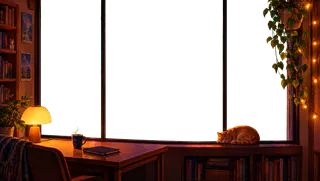
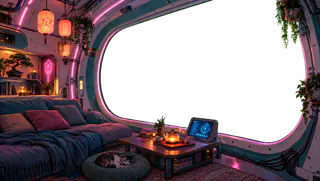
NEON: cápsula cyberpunk asiática y naves en su propia capa
- Nueva escena (pedido del dueño): una cápsula-casa futurista en una megaciudad
  asiática de noche, con neón y lluvia, en vez del depto. Cielo, ciudad (sin
  naves), cápsula con la ventana recortada y primer plano, todas derivadas de
  una misma maestra.
- Las naves son ahora seis piezas sueltas que cruzan el cielo hacia la izquierda
  en bucle, cada una a su velocidad y tamaño, con un leve vaivén, y con su
  propia profundidad al mover la cabeza.
- Todas las capas comparten el mismo marco de la pintura, así los recortes
  quedan alineados en cualquier proporción de pantalla.

diff --git a/src/components/sections/neon/HeroWindow.jsx b/src/components/sections/neon/HeroWindow.jsx
@@ -2,7 +2,7 @@ import { useRef } from 'react'
 import { gsap, useGSAP } from '../../../lib/gsap'
 import { calmReveal, prefersReducedMotion, trackPointer } from '../../../lib/motion'
 import { imgAttrs } from '../../../lib/responsiveImage'
-import { city, fore, room, sky, variants } from './assets/images'
+import { city, fore, room, ship1, ship2, ship3, ship4, ship5, ship6, sky, variants } from './assets/images'
 
 /**
  * Depth of each layer: how far it drifts when you "move your head" (pointer,
@@ -12,17 +12,44 @@ import { city, fore, room, sky, variants } from './assets/images'
  */
 const LAYERS = [
   { id: 'sky', src: sky, drift: 70, lift: 26, scale: 1.16 },
-  { id: 'city', src: city, drift: 48, lift: 18, scale: 1.12 },
+  { id: 'city', src: city, drift: 50, lift: 18, scale: 1.12 },
+  { id: 'ships', drift: 34, lift: 12, scale: 1.1 },
   { id: 'room', src: room, drift: 12, lift: 6, scale: 1.04 },
   { id: 'fore', src: fore, drift: -10, lift: -4, scale: 1.06 },
 ]
 
+// The painting is 2688 × 1520; every layer is laid on the same frame so the
+// cut-outs stay aligned.
+const ART_W = 2688
+const ART_H = 1520
+const FRAME = {
+  position: 'absolute',
+  left: '50%',
+  top: '50%',
+  width: `max(100%, calc(100svh * ${ART_W / ART_H}))`,
+  height: `max(100%, calc(100vw * ${ART_H / ART_W}))`,
+  transform: 'translate(-50%, -50%)',
+}
+
+// Each ship, cut out from the ships layer. The cut-outs were generated large;
+// here each gets its own size in the painting (`w`, % of its width) and its
+// height in the sky (`top`, %): the near ones bigger, lower and faster. They
+// all fly left.
+const SHIPS = [
+  { src: ship1, w: 15, top: 34, speed: 1.5, start: 0.15 },
+  { src: ship2, w: 12, top: 22, speed: 1.15, start: 0.55 },
+  { src: ship3, w: 9, top: 14, speed: 0.9, start: 0.8 },
+  { src: ship4, w: 7, top: 41, speed: 0.7, start: 0.35 },
+  { src: ship5, w: 5.5, top: 28, speed: 0.55, start: 0.05 },
+  { src: ship6, w: 4.5, top: 9, speed: 0.45, start: 0.65 },
+]
+
 /**
- * HeroWindow — a cozy room at night, looking out at a neon megacity, painted
+ * HeroWindow — a cozy capsule home at night, looking out at a neon megacity, painted
  * in layers. Move the pointer (or a finger, or the arrow keys) and the view
  * shifts like a person turning their head: the city slides behind the window
- * frame, the room stays put. Scrolling walks you through the glass into the
- * city.
+ * frame, the room stays put, and the flying cars cross on their own. Scrolling
+ * walks you through the glass into the city.
  */
 export default function HeroWindow({
   eyebrow = 'Eyebrow 1',
@@ -65,7 +92,7 @@ export default function HeroWindow({
       // of the scene fits: the head also pans across it, so the room, the cat
       // and the plants come into view. On a wide screen there's nothing to pan.
       const pin = scene.querySelector('[data-pin]')
-      const panRoom = () => Math.max(0, (pin.clientHeight * (16 / 9) - pin.clientWidth) / 2) * 0.9
+      const panRoom = () => Math.max(0, (pin.clientHeight * (ART_W / ART_H) - pin.clientWidth) / 2) * 0.9
       // a slow idle sway so the scene breathes even when nobody moves (wider on a phone)
       const tick = (time) => {
         const wide = panRoom() > 0
@@ -82,8 +109,25 @@ export default function HeroWindow({
       }
       gsap.ticker.add(tick)
 
+      // the ships cross the city on their own, each at its pace, and come round
+      // again from the right; a slow bob keeps them afloat
+      const flights = gsap.utils.toArray('[data-ship]', scene).map((el, i) => {
+        const ship = SHIPS[i]
+        const from = 103 // % of the frame: just past the right edge
+        const to = -ship.w * 1.6
+        const flight = gsap.fromTo(
+          el,
+          { left: `${from}%` },
+          { left: `${to}%`, duration: 40 / ship.speed, ease: 'none', repeat: -1 },
+        )
+        // each one starts somewhere along its route
+        flight.progress(ship.start)
+        const bob = gsap.to(el, { yPercent: 18, duration: 2.4 + i * 0.4, ease: 'sine.inOut', yoyo: true, repeat: -1 })
+        return [flight, bob]
+      })
+
       // entrance: the room light comes up, then the city wakes behind the glass
-      gsap.from('[data-layer="sky"], [data-layer="city"]', { opacity: 0, duration: 1.6, ease: 'power2.out', stagger: 0.25 })
+      gsap.from('[data-layer="sky"], [data-layer="city"], [data-layer="ships"]', { opacity: 0, duration: 1.6, ease: 'power2.out', stagger: 0.25 })
       gsap.from('[data-layer="room"]', { opacity: 0, filter: 'brightness(0.3)', duration: 1.4, ease: 'power2.out' })
       gsap.from('[data-layer="fore"]', { opacity: 0, x: -30, duration: 1.4, delay: 0.5, ease: 'power3.out' })
       gsap.from('[data-neon-copy] > *', { y: 24, opacity: 0, duration: 0.9, delay: 0.9, stagger: 0.12, ease: 'power3.out' })
@@ -106,11 +150,13 @@ export default function HeroWindow({
       tl.to('[data-dolly="room"]', { scale: 2.6, duration: 1, ease: 'power2.in' }, 0.05)
       tl.to('[data-dolly="room"]', { opacity: 0, duration: 0.3 }, 0.75)
       tl.to('[data-dolly="city"]', { scale: 1.35, duration: 1 }, 0.05)
+      tl.to('[data-dolly="ships"]', { scale: 1.6, duration: 1 }, 0.05)
       tl.to('[data-dolly="sky"]', { scale: 1.12, duration: 1 }, 0.05)
 
       return () => {
         window.removeEventListener('keydown', onKey)
         gsap.ticker.remove(tick)
+        flights.flat().forEach((t) => t.kill())
         pointer.dispose?.()
       }
     },
@@ -127,17 +173,34 @@ export default function HeroWindow({
             data-dolly={l.id}
             className="absolute inset-0 will-change-transform"
             // the room dollies toward the middle of the window
-            style={{ transformOrigin: l.id === 'room' ? '50% 42%' : '50% 50%' }}
+            style={{ transformOrigin: l.id === 'room' ? '62% 40%' : '50% 50%' }}
           >
             <div data-layer={l.id} className="absolute inset-0 will-change-transform" style={{ transform: `scale(${l.scale})` }}>
-              <img
-                {...imgAttrs(l.src, variants)}
-                sizes="100vw"
-                alt=""
-                draggable={false}
-                fetchPriority={l.id === 'sky' || l.id === 'room' ? 'high' : undefined}
-                className="absolute top-0 left-1/2 h-full w-auto max-w-none min-w-full -translate-x-1/2 object-cover"
-              />
+              <div style={FRAME}>
+                {l.src ? (
+                  <img
+                    {...imgAttrs(l.src, variants)}
+                    sizes="100vw"
+                    alt=""
+                    draggable={false}
+                    fetchPriority={l.id === 'sky' || l.id === 'room' ? 'high' : undefined}
+                    className="absolute inset-0 h-full w-full"
+                  />
+                ) : (
+                  SHIPS.map((ship) => (
+                    <img
+                      key={ship.top}
+                      data-ship
+                      {...imgAttrs(ship.src, variants)}
+                      sizes="15vw"
+                      alt=""
+                      draggable={false}
+                      className="absolute will-change-transform"
+                      style={{ top: `${ship.top}%`, width: `${ship.w}%`, height: 'auto' }}
+                    />
+                  ))
+                )}
+              </div>
             </div>
           </div>
         ))}

diff --git a/src/components/sections/neon/assets/images.js b/src/components/sections/neon/assets/images.js
@@ -9,11 +9,23 @@ import roomW320 from './room-320.webp'
 import scene from './scene.webp'
 import sceneW640 from './scene-640.webp'
 import sceneW1080 from './scene-1080.webp'
+import ship1 from './ship-1.webp'
+import ship1W320 from './ship-1-320.webp'
+import ship2 from './ship-2.webp'
+import ship2W320 from './ship-2-320.webp'
+import ship3 from './ship-3.webp'
+import ship3W320 from './ship-3-320.webp'
+import ship4 from './ship-4.webp'
+import ship4W320 from './ship-4-320.webp'
+import ship5 from './ship-5.webp'
+import ship5W320 from './ship-5-320.webp'
+import ship6 from './ship-6.webp'
+import ship6W320 from './ship-6-320.webp'
 import sky from './sky.webp'
 import skyW640 from './sky-640.webp'
 import skyW1080 from './sky-1080.webp'
 
-export { city, fore, room, scene, sky }
+export { city, fore, room, scene, ship1, ship2, ship3, ship4, ship5, ship6, sky }
 
 /** srcset y tamaño intrínseco de cada foto, por URL: ver src/lib/responsiveImage.js. */
 export const variants = {
@@ -21,5 +33,11 @@ export const variants = {
   [fore]: { srcSet: `${foreW320} 320w, ${fore} 2688w`, width: 2688, height: 1520 },
   [room]: { srcSet: `${roomW320} 320w, ${room} 2688w`, width: 2688, height: 1520 },
   [scene]: { srcSet: `${sceneW640} 640w, ${sceneW1080} 1080w, ${scene} 2688w`, width: 2688, height: 1520 },
+  [ship1]: { srcSet: `${ship1W320} 320w, ${ship1} 1312w`, width: 1312, height: 256 },
+  [ship2]: { srcSet: `${ship2W320} 320w, ${ship2} 1312w`, width: 1312, height: 224 },
+  [ship3]: { srcSet: `${ship3W320} 320w, ${ship3} 1200w`, width: 1200, height: 192 },
+  [ship4]: { srcSet: `${ship4W320} 320w, ${ship4} 968w`, width: 968, height: 144 },
+  [ship5]: { srcSet: `${ship5W320} 320w, ${ship5} 816w`, width: 816, height: 144 },
+  [ship6]: { srcSet: `${ship6W320} 320w, ${ship6} 712w`, width: 712, height: 136 },
   [sky]: { srcSet: `${skyW640} 640w, ${skyW1080} 1080w, ${sky} 2688w`, width: 2688, height: 1520 },
 }
